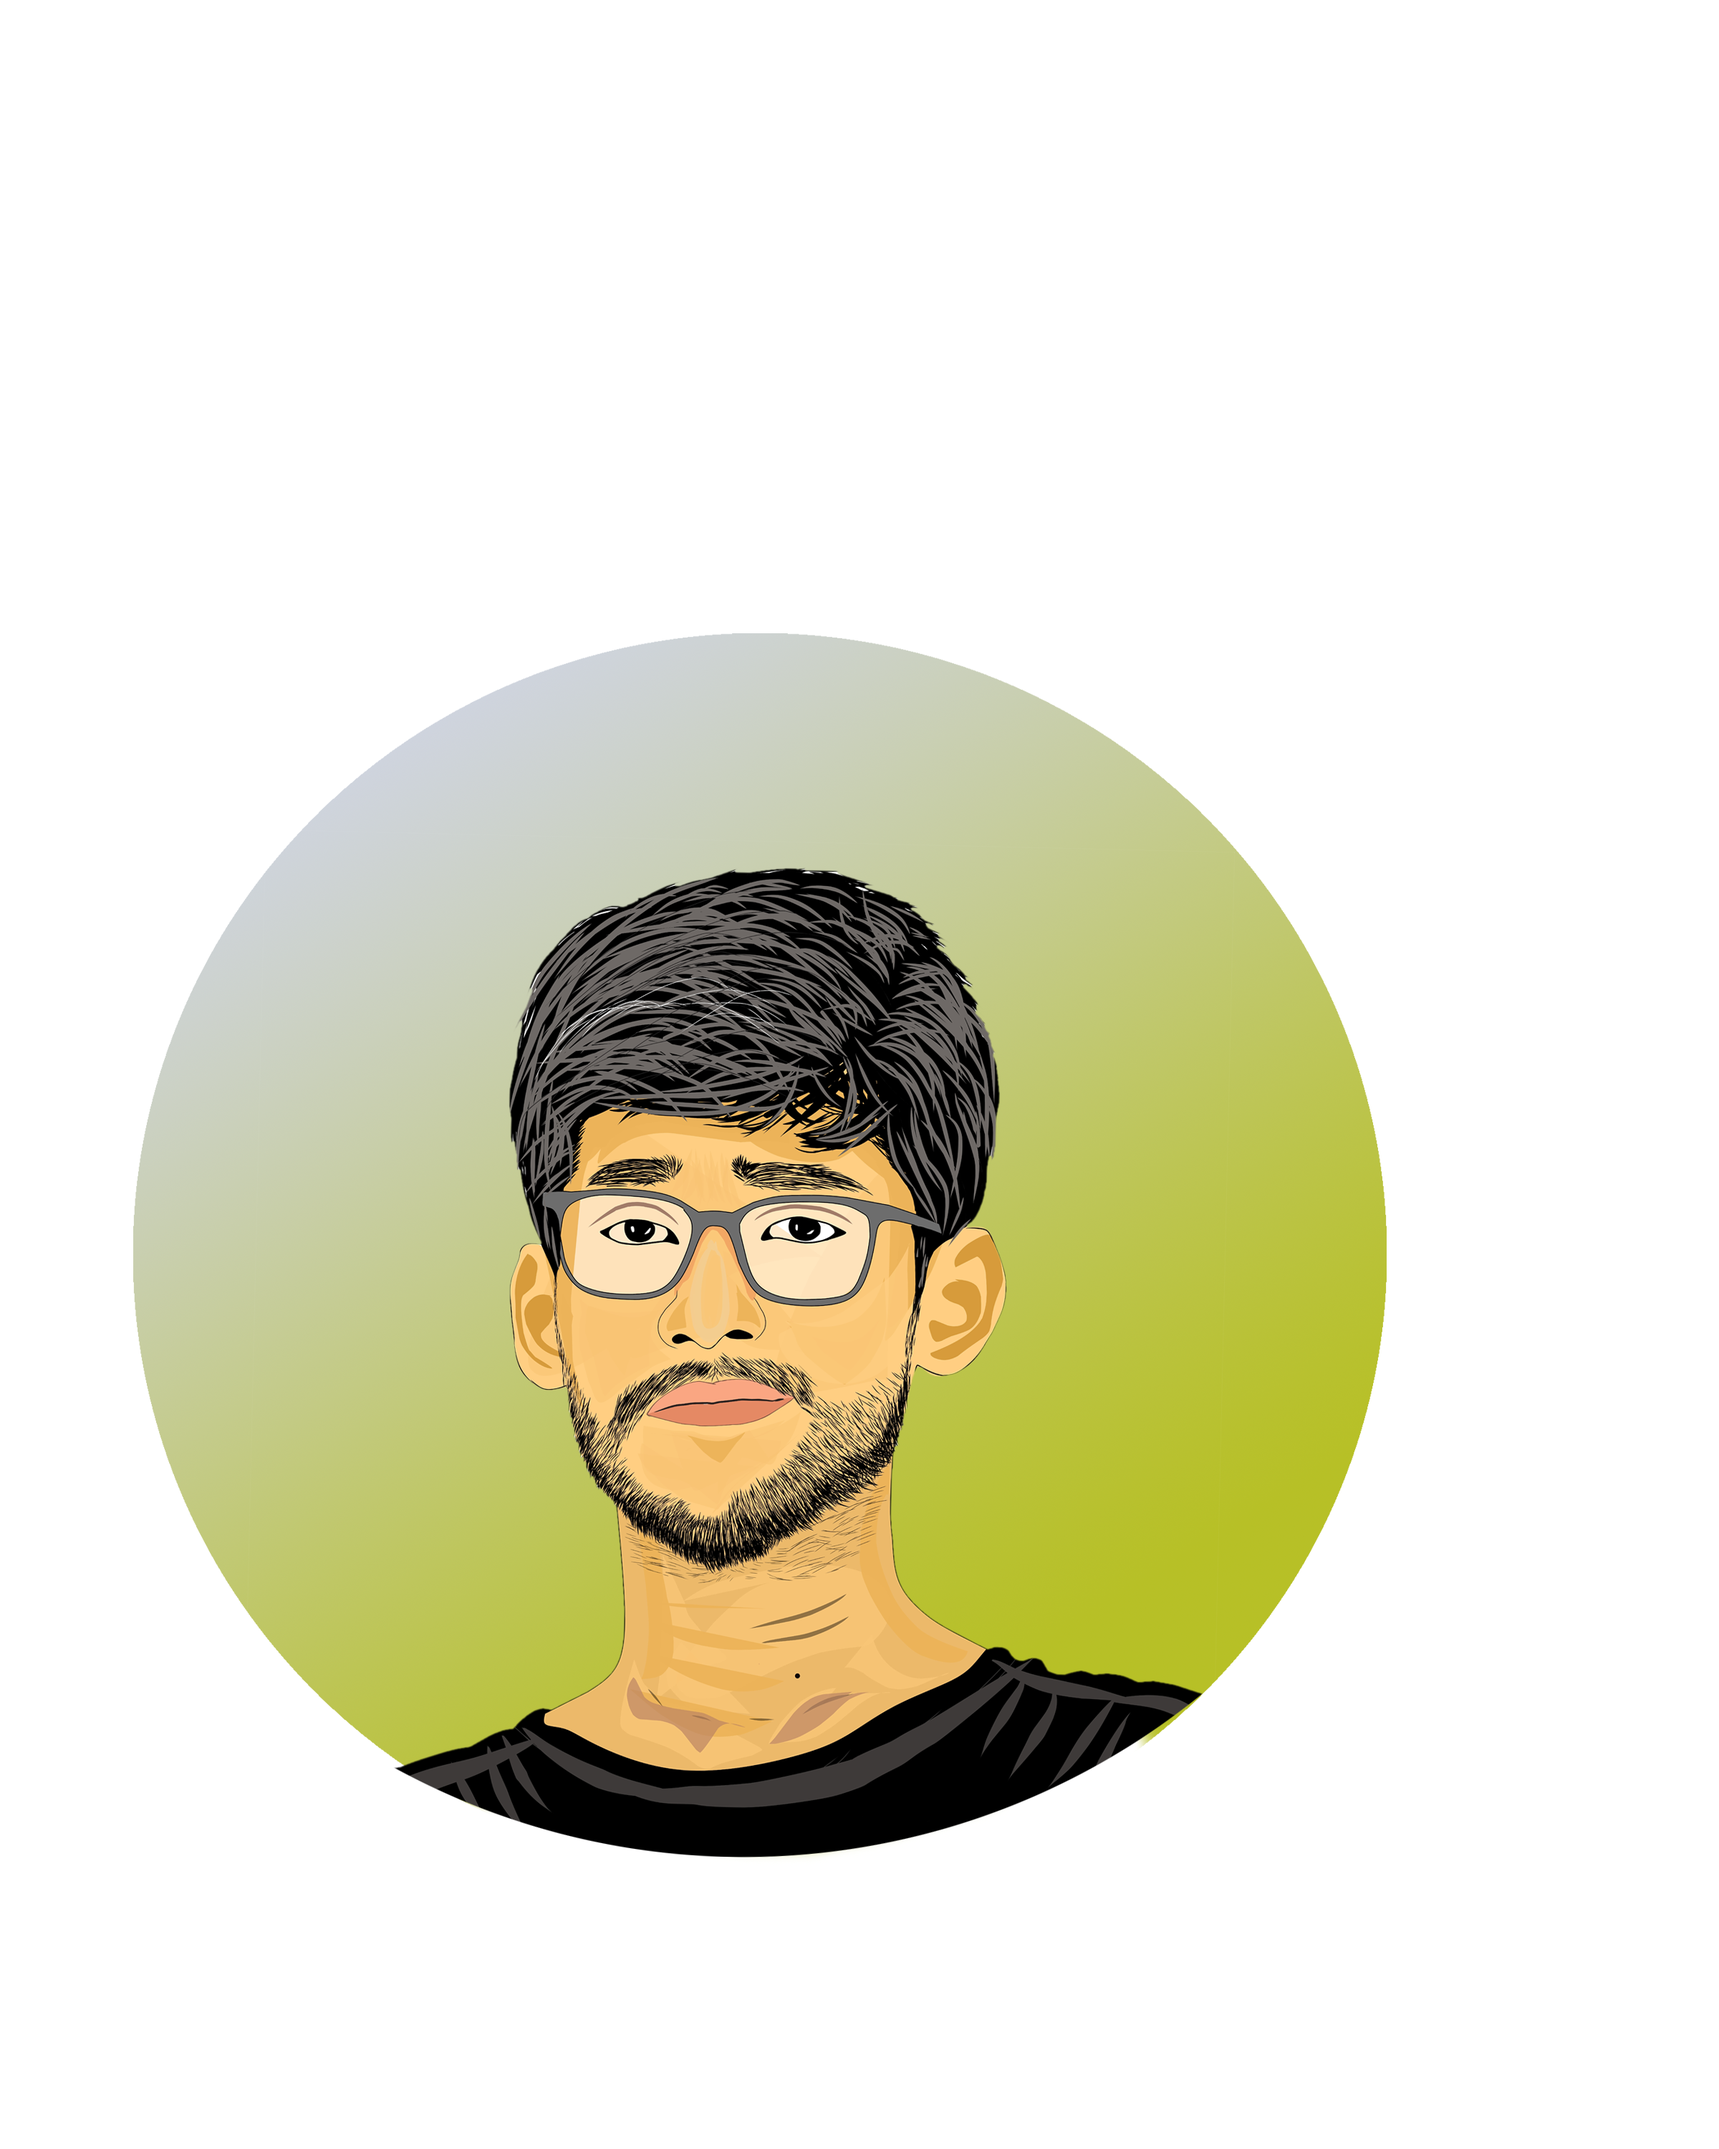
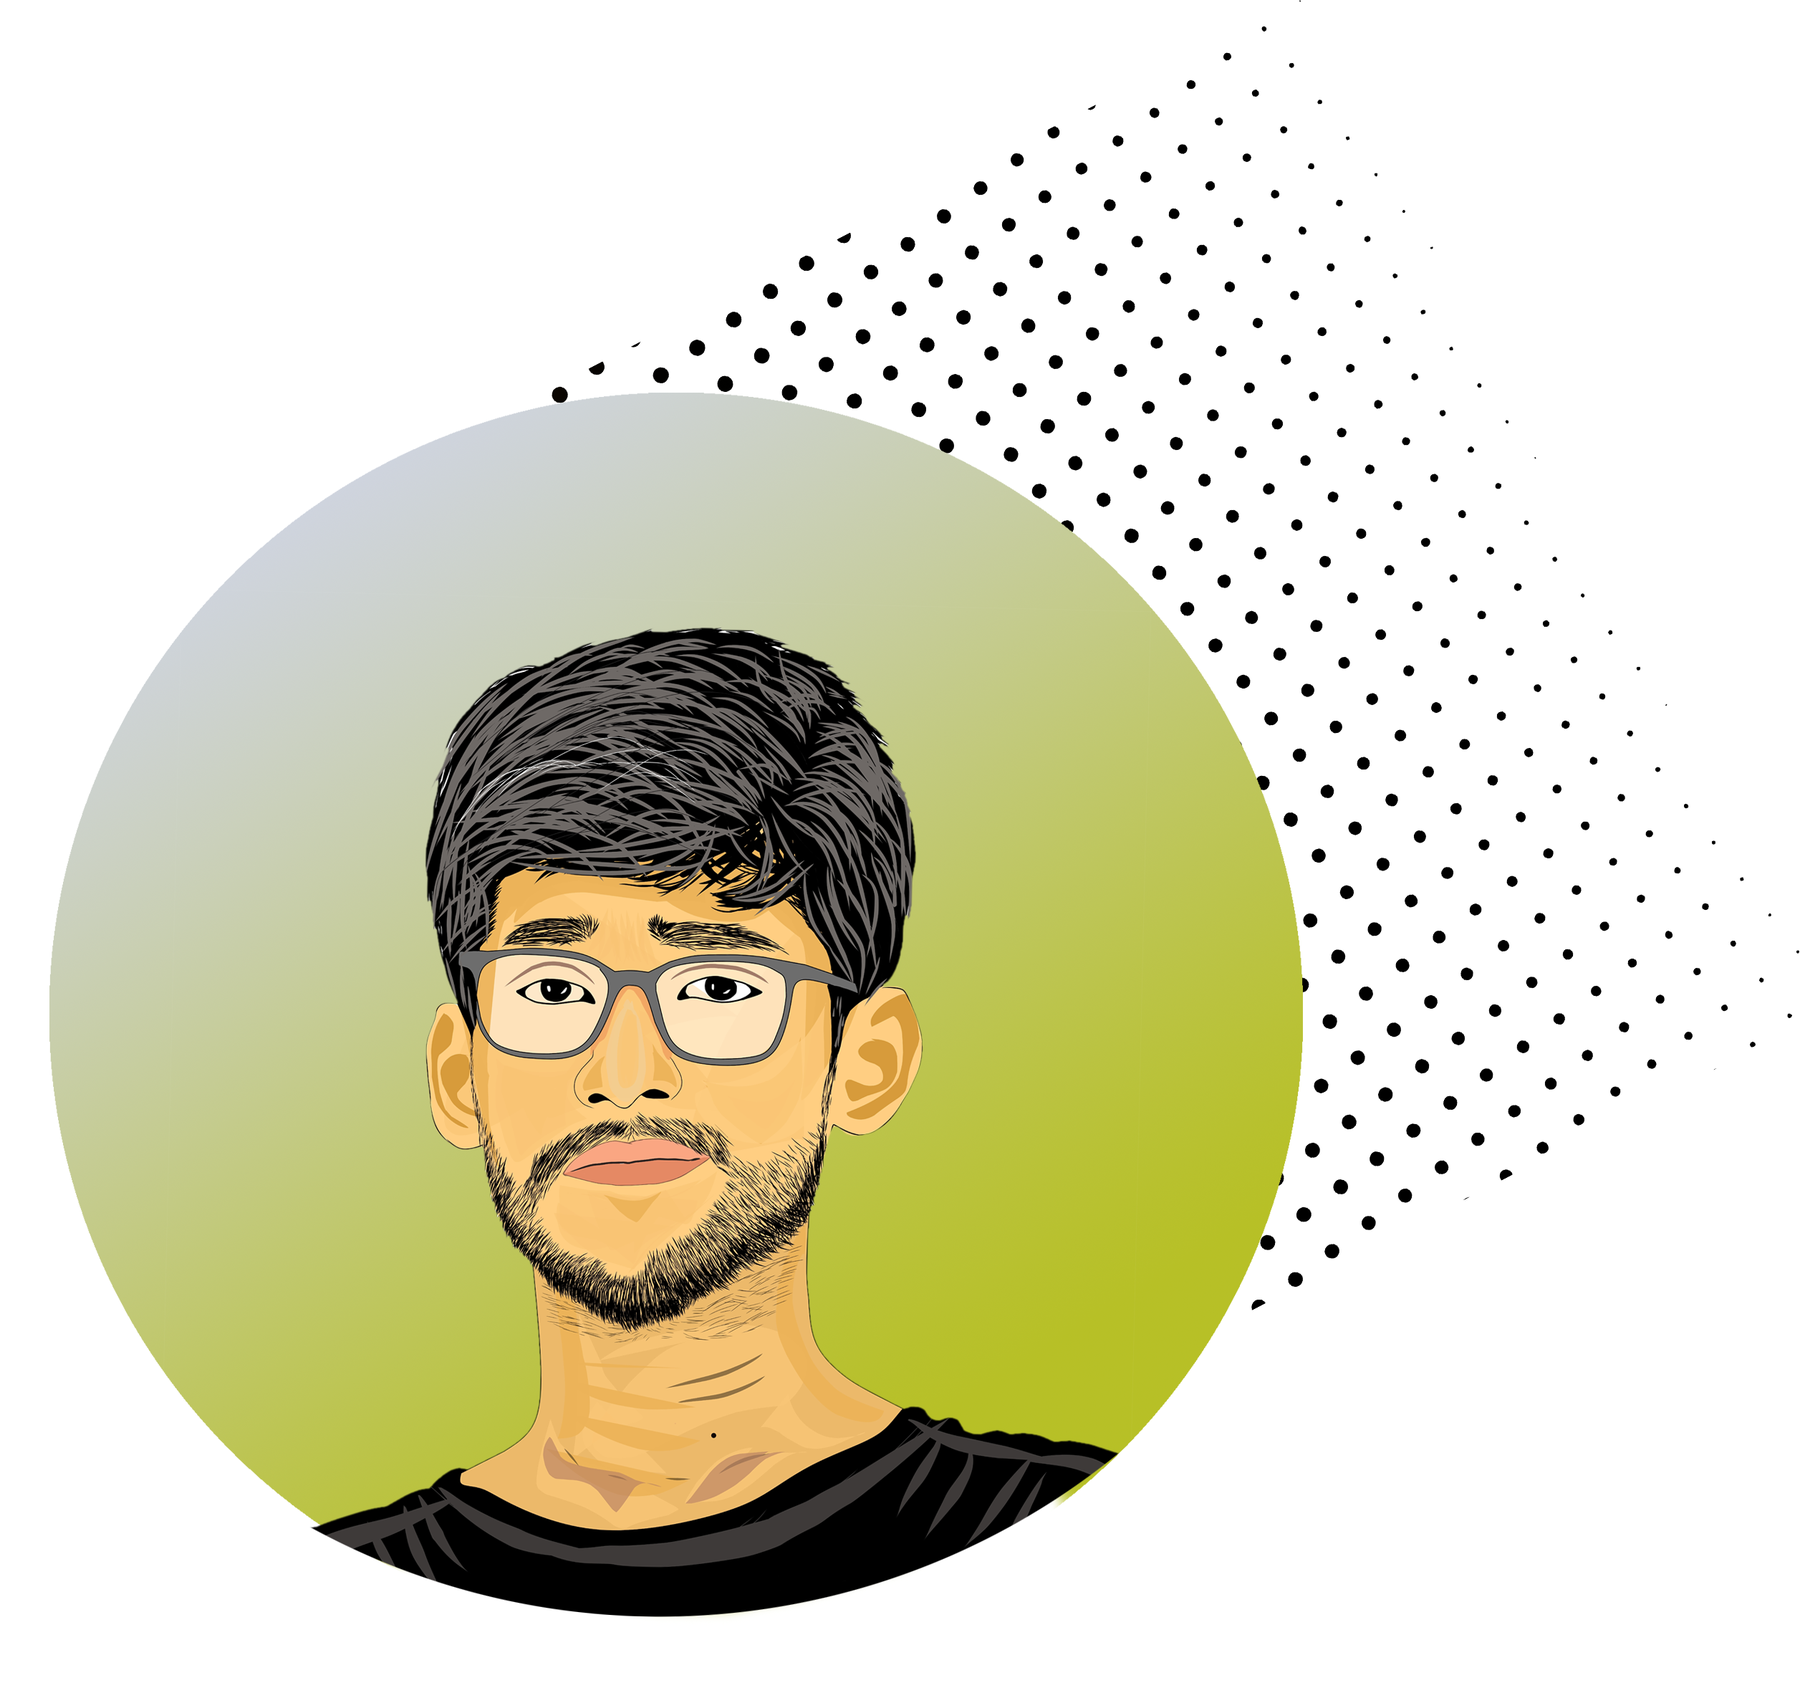
2nd part

diff --git a/index.html b/index.html
@@ -8,20 +8,32 @@
     <link rel="stylesheet" href="style.css">
 </head>
 <body>
-    <section>
+    <section class="top-banner">
         <div class="Half-width">
             <h1>Hi Five</h1>
             <h1>It's <span class="name">Rupok</span></h1>
-            <h3>---Dream---</h3>
+            <h2>---Dream---</h2>
             <p> I want to do something for homeless poor pepole. In future I want to creat opertunaty for student in web develop who come from middle class family. I belong from Middle class so I know there situation. And the final thing is Wanna be a good human being with good heart. </p>
+            <a class="link-button" target="_blank" href="https://www.linkedin.com/in/rupok213/">LinkedIn</a>
         </div>
         <div class="Half-width">
             <img src="img/2nd.png" alt="">
         </div>
         
     </section>
+    <section class="Dream-area">
+        <div class="Half-width">
+            <img src="img/1st.png" alt="">
+        </div>
+        <div class="Half-width">
+            <h2>---Dream Big---</h2>
+            <h5>Become a Web Developer</h5>
+            <p> I already learned the basic HTML and CSS. I can build any simple website. My goal is to build 10 website and learn advanceed topics. </p>
+            <br> <br>
+            <a class="link-button" target="_blank" href="https://drive.google.com/file/d/1QcTt8nLng1GGtLmEQBw0W509GPnsmRl9/view?usp=share_link">My Resume</a>
 
-    
+        </div>
+    </section>
     
 </body>
 </html>

diff --git a/style.css b/style.css
@@ -1,8 +1,24 @@
 body{
     font-family: 'Rubik', sans-serif;
+    margin: 0px;
+}
+section{
+    height: 450px;
+    padding-bottom: 150px;
+}
+.top-banner{
+    background-image: url("img/Background-top.png");
+    background-repeat: no-repeat;
+    width: 100%;
 }
 h1{
     font-size: 60px;
+}
+h2{
+    text-align: center;
+}
+p{
+    color: dimgray;
 }
 .name{
     color: orange;
@@ -15,7 +31,23 @@ h1{
     text-align: justify;
     
 }
+.link-button{
+    text-decoration: none;
+    background-image: linear-gradient(45deg, rgb(113, 62, 62), black);
+    color: white;
+    font-size: 20px;
+    padding: 10px 20px;
+    border-radius: 5px;
+    font-weight: 700;
+
+}
 .Half-width img{
     width: 80%;
     padding-left: 80px;
+}
+.Dream-area{
+    background-image: url(img/Dream-bg.png);
+    background-repeat: no-repeat;
+    background-position: right;
+    padding-top: 50px;
 }
